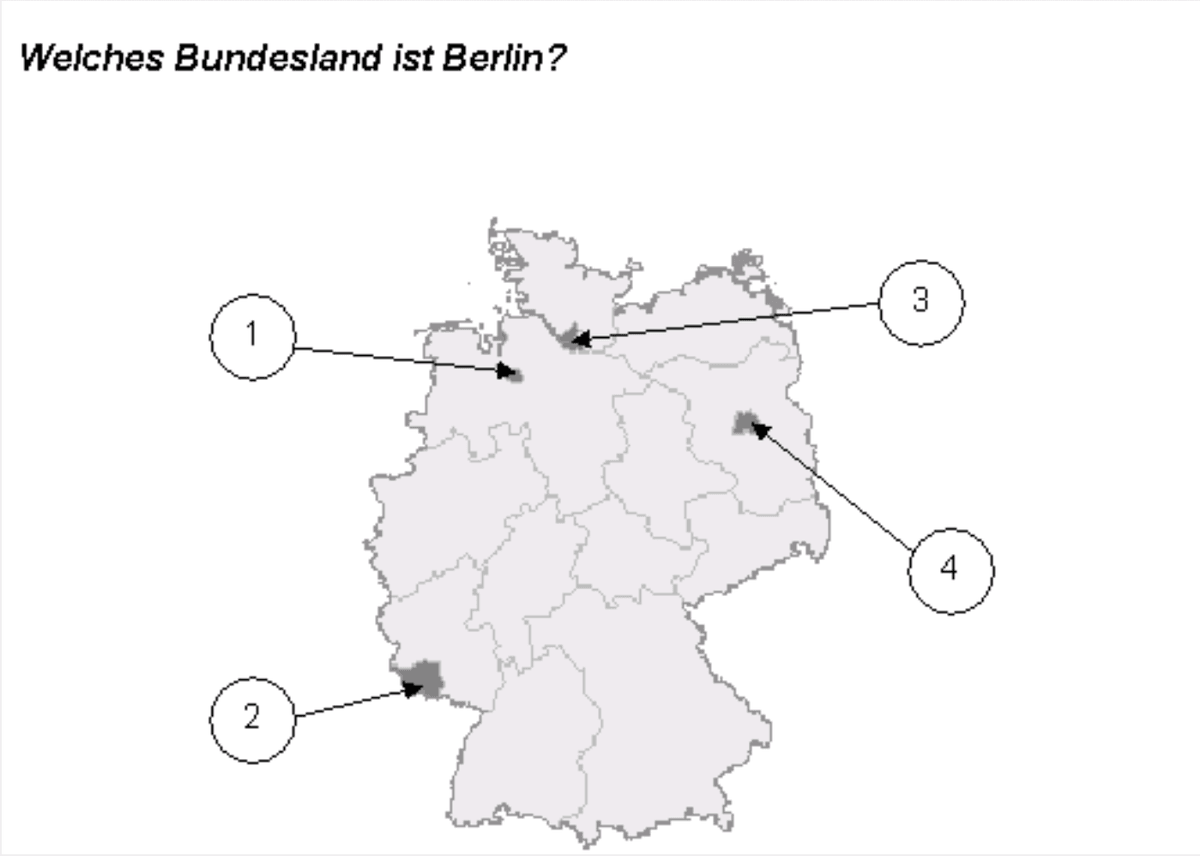
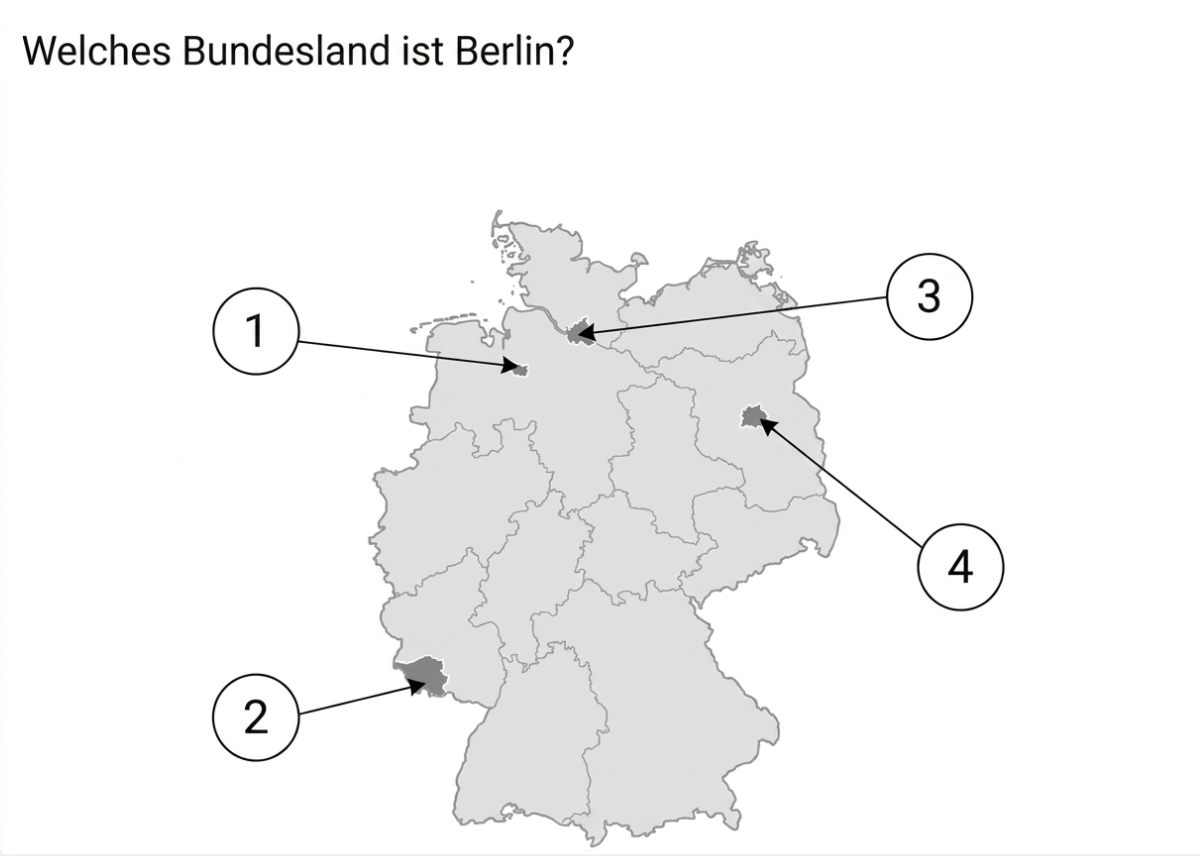
Replace all state map images with cleaned redraws

diff --git a/README.md b/README.md
@@ -38,7 +38,7 @@ No web server is required; `data/questions.js`, `data/vocabulary.js` and `data/i
[1 lines of base64/hex data omitted]
   <https://www.bamf.de/SharedDocs/Anlagen/DE/Integration/Einbuergerung/gesamtfragenkatalog-lebenindeutschland.html?nn=284310>
 - **Answers, English translations, explanations and images**: [abdullahbutt/leben-in-deutschland-test](https://github.com/abdullahbutt/leben-in-deutschland-test), version 2026-10-28. **The German question and option wording is taken verbatim from the official BAMF PDF**; the dataset supplies the answer key, English translations, explanations and images. The translations and explanations are licensed under **CC BY-NC 4.0** (attribution, non-commercial use). `data/overrides.json` contains manual corrections for the few items where the dataset described a different paraphrase (e.g. B232, B247, HB02, SN07).
-- **Redrawn images**: all 16 state coat-of-arms images under `data/images/301-*.png`, plus `data/images/21.png`, `data/images/55.png`, `data/images/70.png`, `data/images/130.png`, `data/images/176.png`, `data/images/181.png`, `data/images/187.png`, `data/images/209.png`, `data/images/216.png`, `data/images/226.png` and `data/images/235.png`, are redrawn replacements added for this project; the remaining images come from the dataset.
+- **Redrawn images**: all 16 state coat-of-arms images (`data/images/301-*.png`) and all 16 state map images (`data/images/308-*.png`), plus `data/images/21.png`, `data/images/55.png`, `data/images/70.png`, `data/images/130.png`, `data/images/176.png`, `data/images/181.png`, `data/images/187.png`, `data/images/209.png`, `data/images/216.png`, `data/images/226.png` and `data/images/235.png`, are redrawn replacements added for this project; the remaining images come from the dataset.
 - **BB01 answer correction**: the official BAMF page shows the Brandenburg eagle as **Bild 1**; `data/overrides.json` pins `correct: 0`, overriding the dataset's incorrect Bild 4 mapping.
 - This is an independent learning app, not an official BAMF product. Use is intended for personal, non-commercial exam preparation.
 
